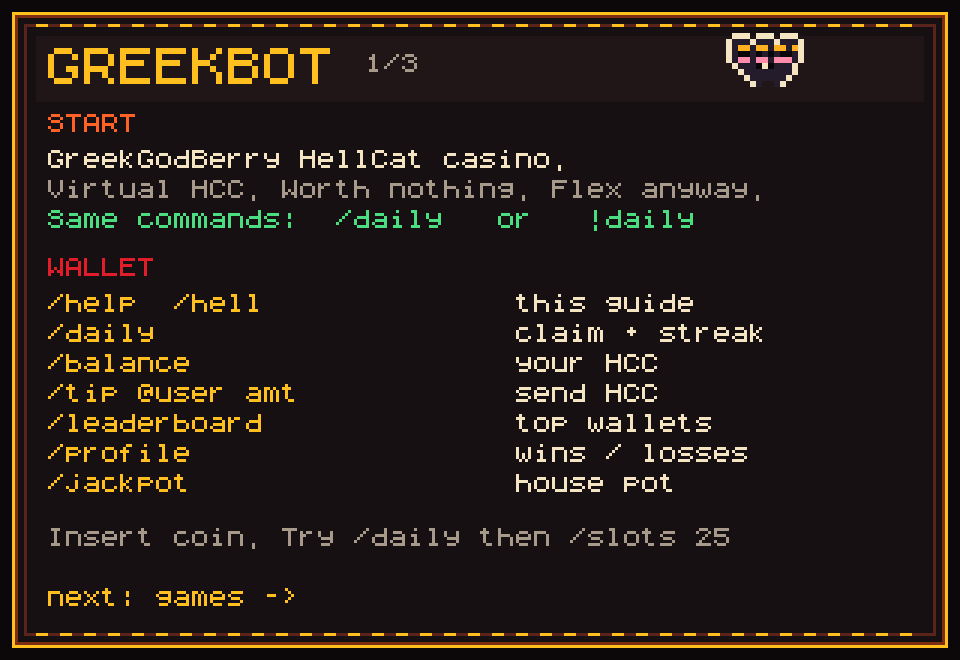
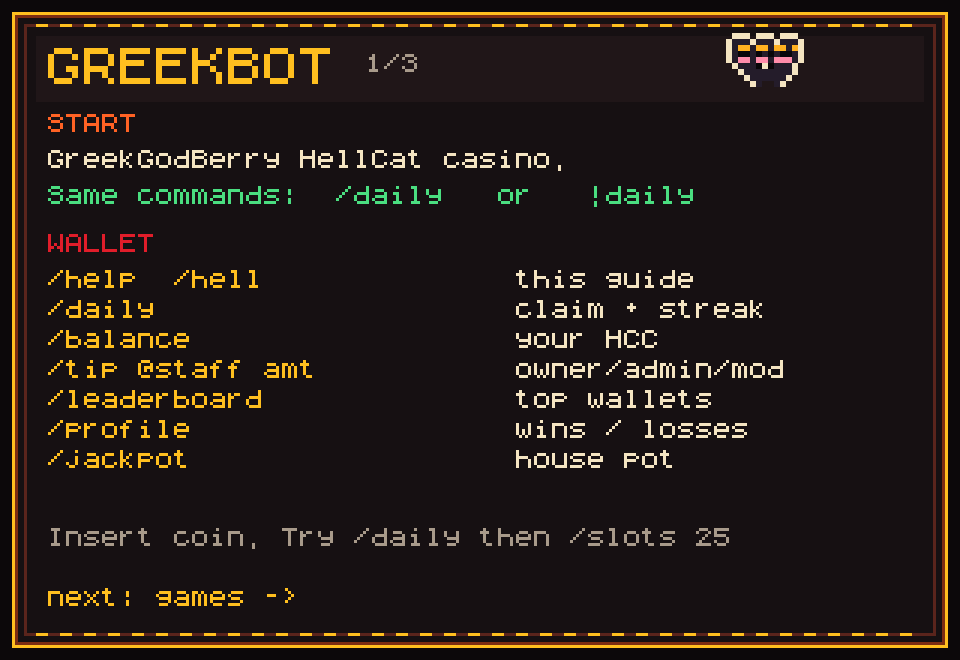
Remove HCC value disclaimers from the 8-bit command manuals.

Changed region(s): [[0.0312, 0.2727, 0.7812, 0.7576], [0.5312, 0.3939, 0.8125, 0.7576], [0.1875, 0.3939, 0.2812, 0.4848]]

diff --git a/scripts/render-command-guides.ts b/scripts/render-command-guides.ts
@@ -331,11 +331,10 @@ function page1(): Bitmap {
   b.sprite(W - 78, 11, CAT, MAP, 2);
 
   b.text(16, 50, "GreekGodBerry HellCat casino.", C.ink);
-  b.text(16, 60, "Virtual HCC. Worth nothing. Flex anyway.", C.dim);
-  b.text(16, 70, "Same commands:  /daily   or   !daily", C.green);
+  b.text(16, 62, "Same commands:  /daily   or   !daily", C.green);
 
-  b.text(16, 86, "WALLET", C.red);
-  let y = 98;
+  b.text(16, 78, "WALLET", C.red);
+  let y = 90;
   y = cmd(b, y, "/help  /hell", "this guide");
   y = cmd(b, y, "/daily", "claim + streak");
   y = cmd(b, y, "/balance", "your HCC");
@@ -399,8 +398,7 @@ function page3(): Bitmap {
   y = cmd(b, y, "/admin bigwin", "big-win feed");
   y = cmd(b, y, "/admin arenamaster", "arena role");
 
-  b.text(16, 184, "Last cat standing takes the pot.", C.dim);
-  b.text(16, 196, "HCC has no real value. 18+", C.gold);
+  b.text(16, 196, "Last cat standing takes the pot.", C.dim);
   return b;
 }
 
